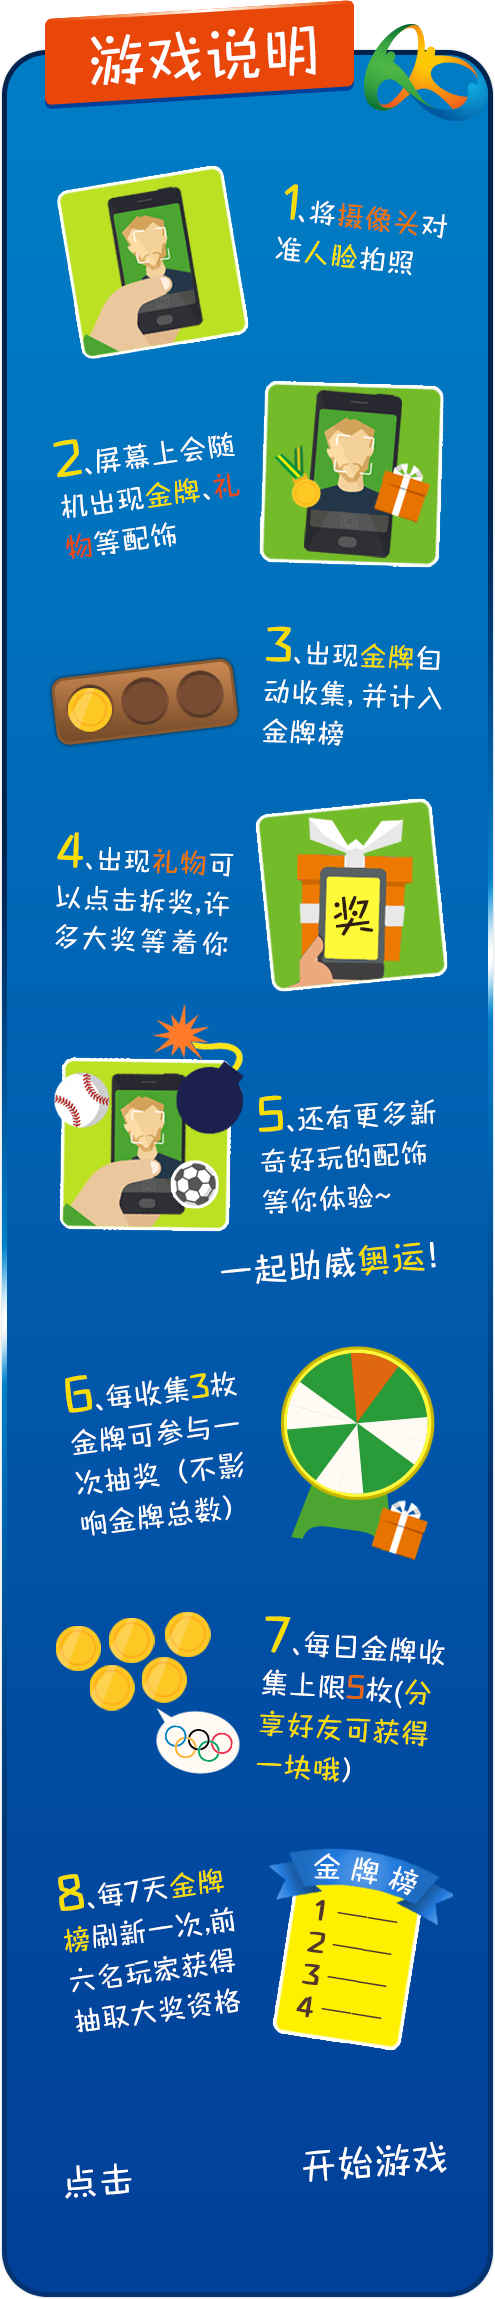
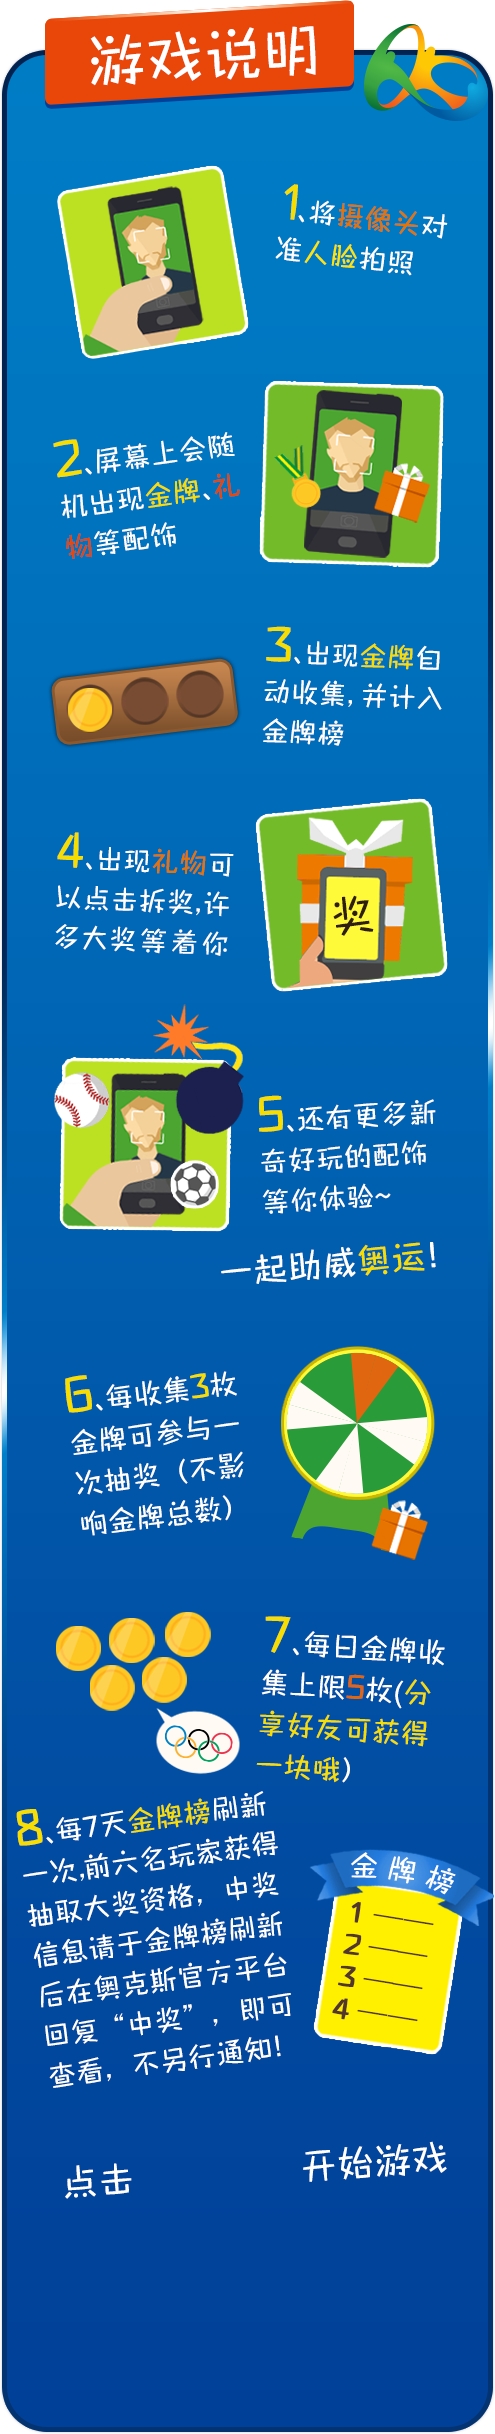
修改规则页，添加按钮
修改规则页，添加查看排行榜按钮

diff --git a/app/scss/main.scss b/app/scss/main.scss
@@ -228,7 +228,9 @@ body {
 // rank start=============================================
 #rank-container, #no-face-container {
     background: rgba(0, 0, 0, 0.8);
+    z-index: 10;
 }
+
 
 #rank {
     top: 110px;
@@ -323,6 +325,7 @@ body {
 
 #rule-container {
     // background-image: url('../images/universal-bg.jpg');
+
 }
 
 #rule {
@@ -335,6 +338,7 @@ body {
     width: image-width($rule);
     height: image-height($rule);
     // background-image: url($rule);
+
 }
 
 #rule-start {
@@ -344,6 +348,15 @@ body {
     width: image-width($rule-start);
     height: image-height($rule-start);
     // background-image: url($rule-start);
+}
+
+#check-rank {
+    top: 2280px;
+    left: 44px;
+    $check-rank: '../images/check-rank.png';
+    width: image-width($check-rank);
+    height: image-height($check-rank);
+    // background-image: url($check-rank);
 }
 
 #no-face {

diff --git a/app/js/main.js b/app/js/main.js
@@ -12,6 +12,7 @@ var micSnd = $('#mic-snd')[0];
 var sourceArr = [
     'images/basketball.png',
     'images/bomb-s9ff2090ab4.png',
+    'images/check-rank.png',
     'images/cheerl.png',
     'images/cheerr.png',
     'images/close-btn.png',
@@ -87,6 +88,7 @@ function setBgImages() {
 
     // 排行榜
     $('#rank').css('background-image', 'url(images/rank-bg.png)');
+    $('#check-rank').css('background-image', 'url(images/check-rank.png)');
     $('#top-one').css('background-image', 'url(images/top-one.png)');
     $('.close-btn').css('background-image', 'url(images/close-btn.png)');
 
@@ -224,7 +226,7 @@ function hideRank() {
 }
 
 // 点击排行榜按钮
-$('#rank-btn').on('touchstart', showRank);
+$('#rank-btn, #check-rank').on('touchstart', showRank);
 
 // 点击关闭排行榜按钮
 $('#close-rank').on('touchstart', hideRank);

diff --git a/app/css/main.css b/app/css/main.css
@@ -437,6 +437,7 @@ body {
 
 #rank-container, #no-face-container {
   background: rgba(0, 0, 0, 0.8);
+  z-index: 10;
 }
 
 #rank {
@@ -520,7 +521,7 @@ body {
   left: 75px;
   margin-bottom: 60px;
   width: 495px;
-  height: 2299px;
+  height: 2434px;
 }
 
 #rule-start {
@@ -528,6 +529,13 @@ body {
   left: 125px;
   width: 187px;
   height: 187px;
+}
+
+#check-rank {
+  top: 2280px;
+  left: 44px;
+  width: 245px;
+  height: 124px;
 }
 
 #no-face {

diff --git a/app/index.html b/app/index.html
@@ -124,6 +124,7 @@
             <div class="scrolly-container" id="rule-container">
                 <div class="ab-element" id="rule">
                     <div class="ab-element" id="rule-start"></div>
+                    <div class="ab-element" id="check-rank"></div>
                 </div>
             </div><!--/rule container end-->
 
